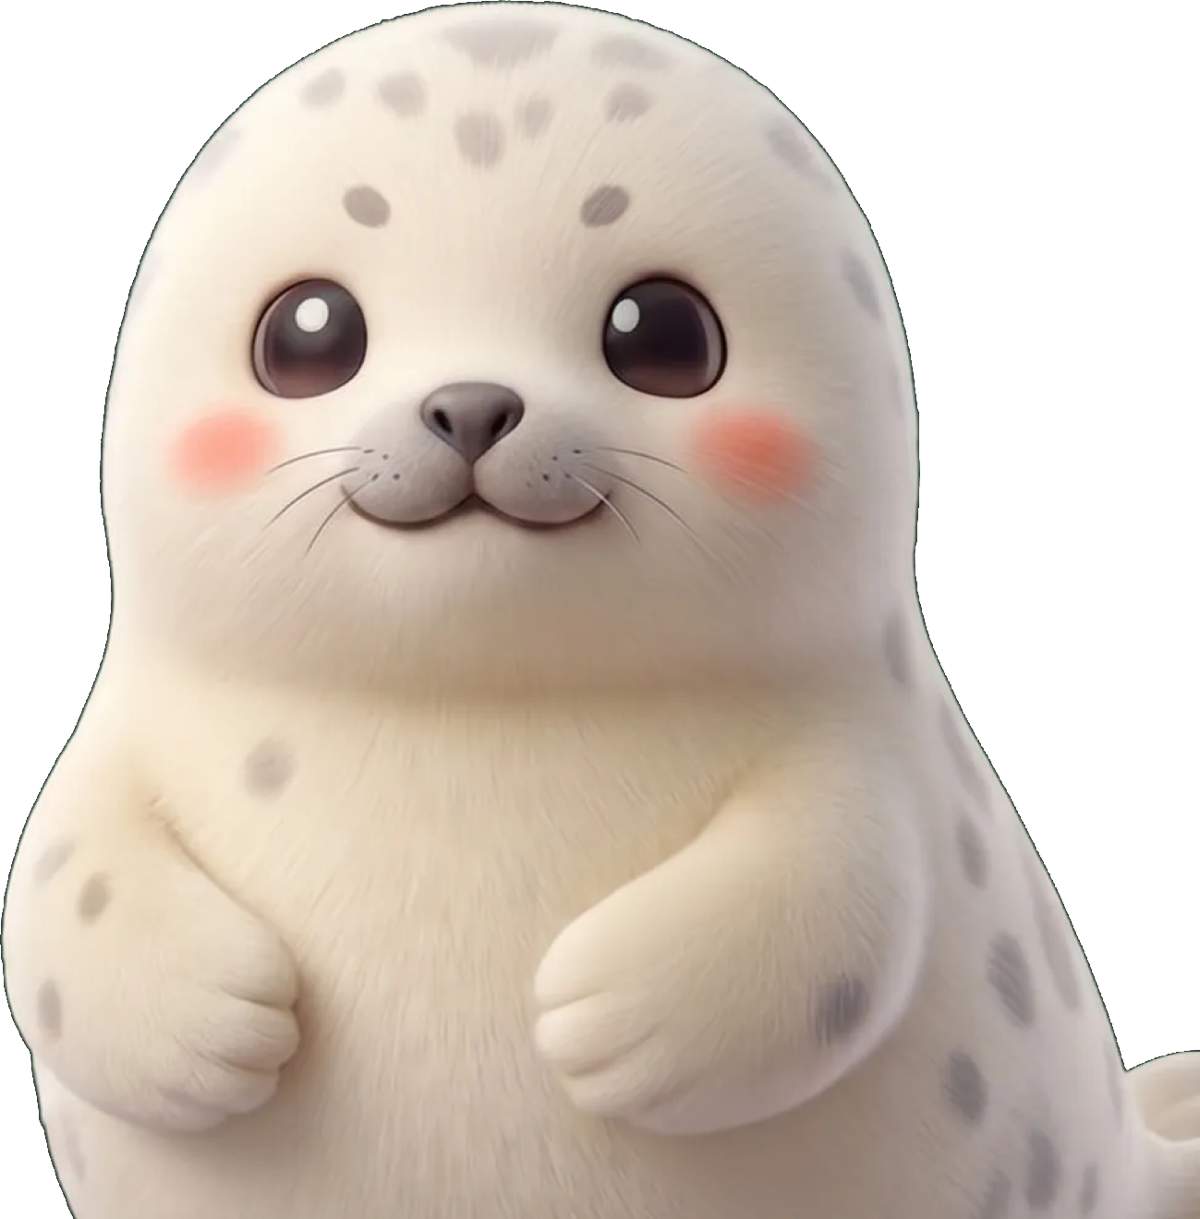
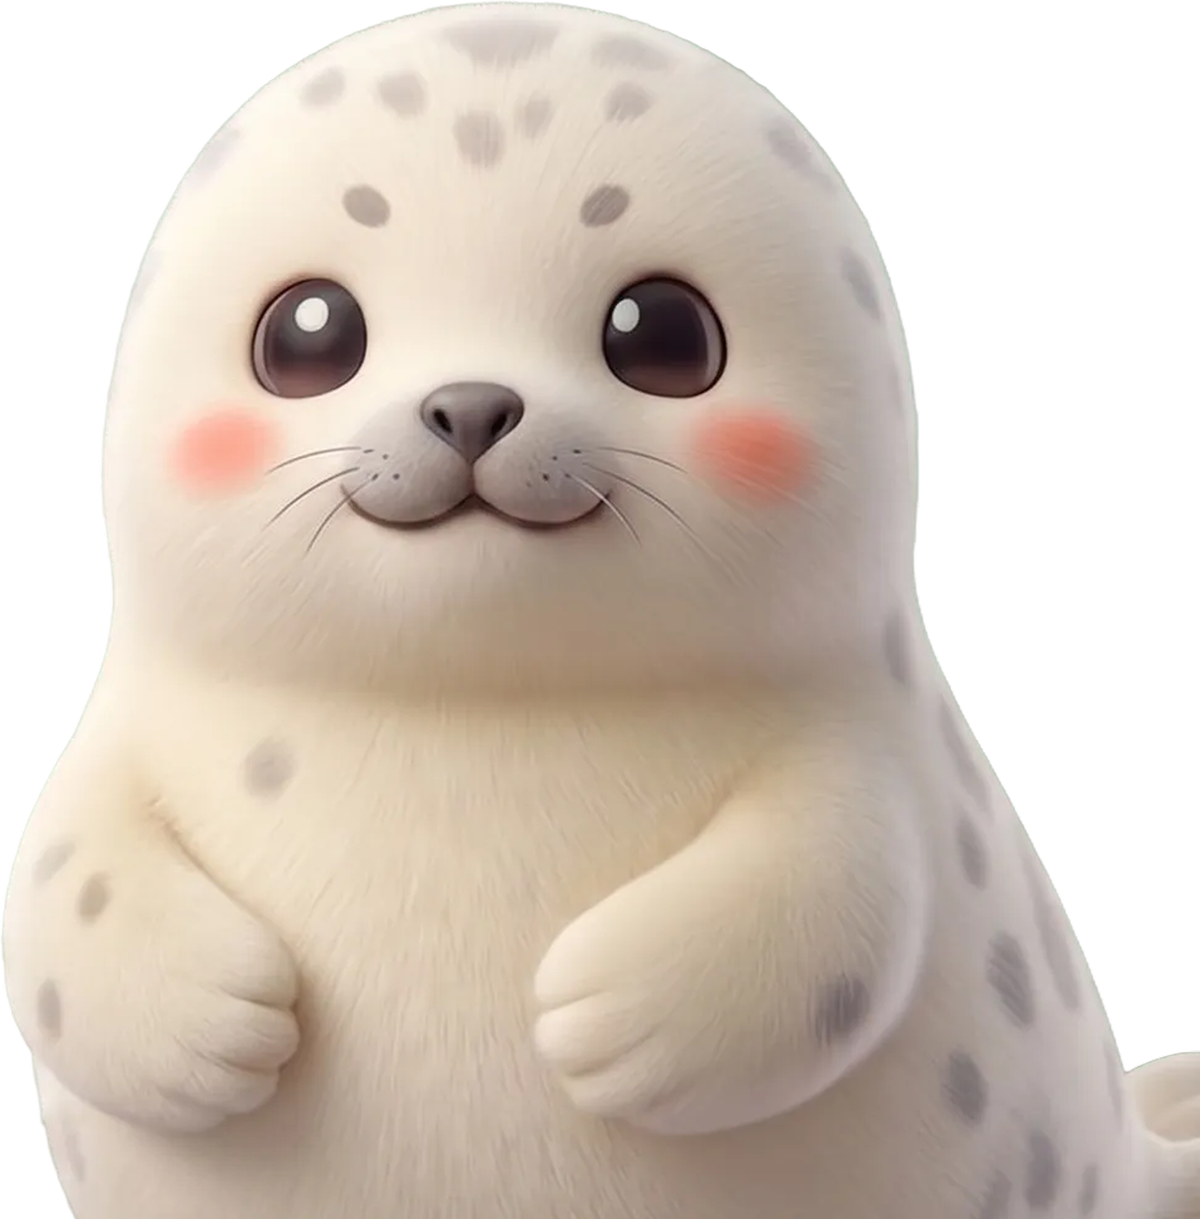
The pup loses the grey line it was cut out with
The sitting render was a bad key: a dark hairline traced the whole
silhouette — 99.5% of the icon crop's semi-transparent rim pixels sat
more than 60 luma below the body, and the hero's rim-vs-body colour
delta was 59. On the forest icon field it hid. On the site's white hero
it read as a grey outline, which is where it was spotted. The old file
was clipped on three sides too, so the tail was cut off.

The replacement is the same artwork re-exported clean at 3x: silhouette
row profiles match to three decimals, and both eyes plus the nose land
at a uniform scale of 1.62076 with the crop origin on the pup's bbox
corner. So the icon crop is derived from those landmarks rather than
re-judged by eye, and the framing survives intact — silhouette IoU
0.996, only the edge moved. Dark rim pixels on the icon: 99.5% -> 0.0%.

Every resize goes through premultiplied alpha. A plain RGBA downscale
averages the RGB of fully transparent pixels, usually black, into the
semi-transparent rim — it manufactures the exact halo being removed.

The pristine un-keyed original is archived alongside as
mascot-sitting-source.png, because the reason this survived several
releases is that nobody could re-cut it without asking for the file.

16 and 32 px icons are untouched: they hand over to the mark, not the
pup. The hero's intrinsic height goes 391 -> 387 to match the new
aspect, now that the tail is no longer clipped.

actool compiles the catalog clean; the page was checked at desktop and
[…]

diff --git a/docs/index.html b/docs/index.html
@@ -210,7 +210,7 @@
         <span><svg viewBox="0 0 24 24" fill="none" stroke="currentColor" stroke-width="2.5" stroke-linecap="round" stroke-linejoin="round" aria-hidden="true"><path d="M4 12.5l5 5L20 6.5"/></svg> macOS 14+, Apple silicon</span>
       </div>
     </div>
-    <img class="hero-seal" src="/seal-hero.png" width="410" height="391" fetchpriority="high"
+    <img class="hero-seal" src="/seal-hero.png" width="410" height="387" fetchpriority="high"
          alt="Seal, the app's mascot: a small spotted seal pup sitting up, facing you.">
   </div>
 
